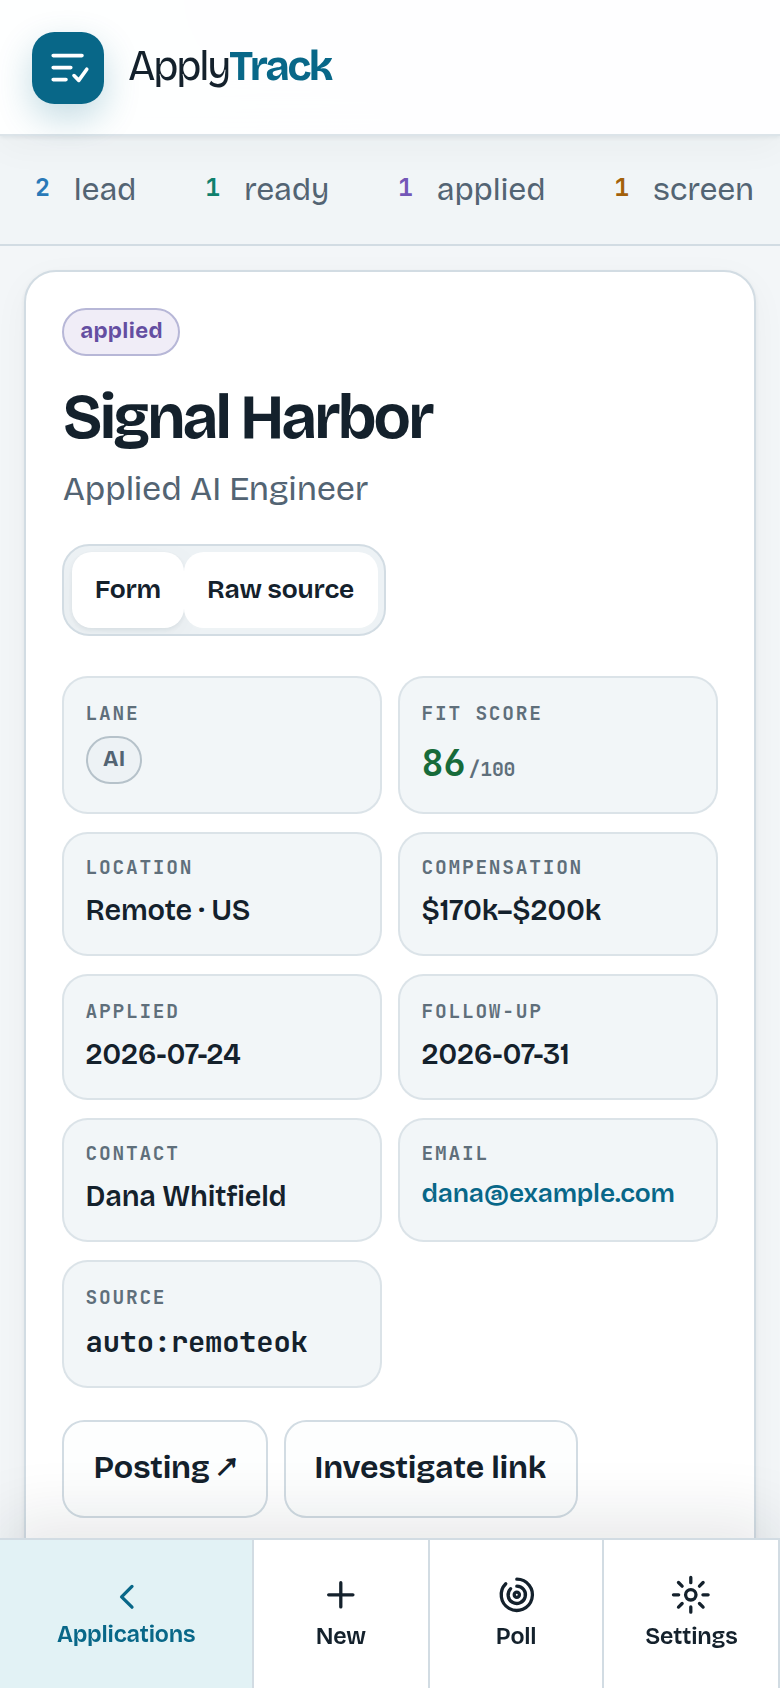
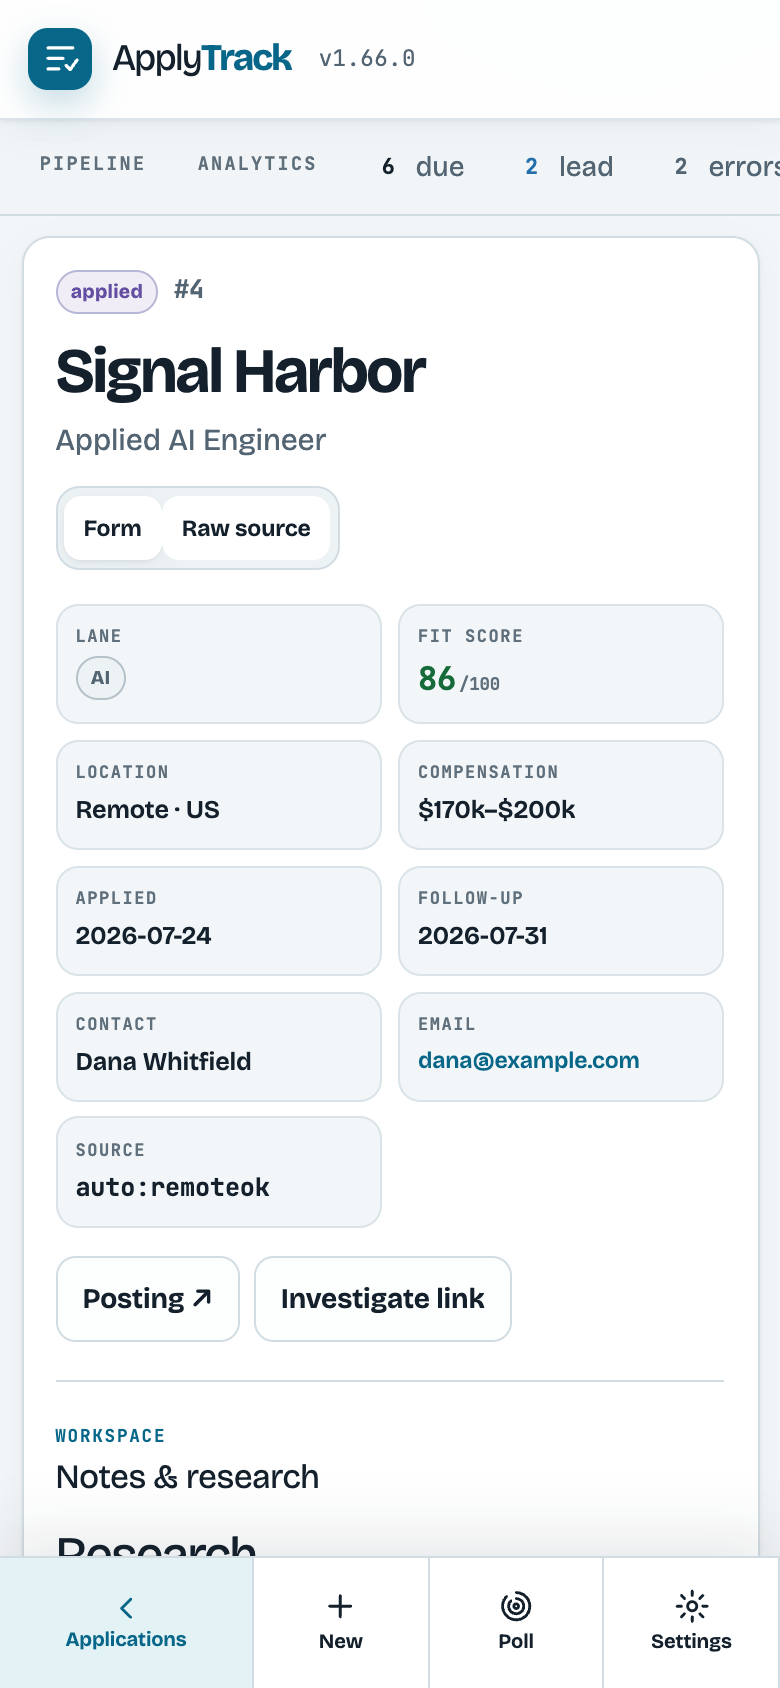
docs(screenshots): retake the README shots and add a desktop + phone gallery
Shot from a running instance of main (1.66.0) with a seeded account; nothing mocked.
- docs/screenshot.png, docs/mobile.png retaken (the phone shot renders text at 87.5%)
- docs/screenshots/: Due, Errors, search results, analytics, an application's
  timeline, contacts, sheet, and Settings · Notifications, each desktop and phone
- README: a collapsible "More screenshots" gallery under the hero images
- capture-readme-screenshots.js: pre-acknowledge the beta-terms dialog (it covered
  every shot) and render phone text at 87.5%

Claude-Session: https://claude.ai/code/session_01SXYffreKMhXLNgc2wdhsiw

diff --git a/scripts/capture-readme-screenshots.js b/scripts/capture-readme-screenshots.js
@@ -25,6 +25,10 @@ const cookie = {
   sameSite: "Lax",
 };
 
+// Phone shots render the text a step smaller (87.5% root size) so more of the sheet fits
+// in 390x844 without looking cramped. Capture-only: the app itself is unchanged.
+const MOBILE_FONT_SCALE = "87.5%";
+
 async function capture({ viewport, deviceScaleFactor, mobile, company, output }) {
   const context = await browser.newContext({
     viewport,
@@ -34,8 +38,14 @@ async function capture({ viewport, deviceScaleFactor, mobile, company, output })
     colorScheme: "light",
   });
   await context.addCookies([cookie]);
+  // The public-beta terms dialog opens once per session and is modal; acknowledge it
+  // up front (the same sessionStorage key the SPA writes) so it never covers the shot.
+  await context.addInitScript(() => {
+    try { sessionStorage.setItem("applytrack.beta-ack", "1"); } catch (_) {}
+  });
   const page = await context.newPage();
   await page.goto(baseUrl, { waitUntil: "networkidle" });
+  if (mobile) await page.addStyleTag({ content: `html { font-size: ${MOBILE_FONT_SCALE}; }` });
   await page.getByRole("button", { name: new RegExp(company) }).click();
   await page.getByRole("heading", { name: company, exact: true }).waitFor();
   // Opening an application moves focus to its heading, which leaves a scroll

diff --git a/README.md b/README.md
@@ -42,6 +42,22 @@ telemetry, no SaaS.
   <em>The responsive list and detail view support touch, keyboard, and screen readers.</em>
 </p>
 
+<details>
+<summary><strong>More screenshots</strong> — desktop and phone, from a running instance</summary>
+
+| View | Desktop | Phone |
+| --- | --- | --- |
+| Due — interviews this week and follow-ups, with <em>Follow up on all</em> | <img src="docs/screenshots/due.png" alt="Due — interviews this week and follow-ups, with Follow up on all" width="560"> | <img src="docs/screenshots/due-mobile.png" alt="Due — interviews this week and follow-ups, with Follow up on all on a phone" width="180"> |
+| Errors — what is stuck, what happens next, and <em>Retry all</em> | <img src="docs/screenshots/errors.png" alt="Errors — what is stuck, what happens next, and Retry all" width="560"> | <img src="docs/screenshots/errors-mobile.png" alt="Errors — what is stuck, what happens next, and Retry all on a phone" width="180"> |
+| Search results — number, where it is, and the posting link | <img src="docs/screenshots/search-results.png" alt="Search results — number, where it is, and the posting link" width="560"> | <img src="docs/screenshots/search-results-mobile.png" alt="Search results — number, where it is, and the posting link on a phone" width="180"> |
+| Analytics — response rate, time to response, and the funnel | <img src="docs/screenshots/analytics.png" alt="Analytics — response rate, time to response, and the funnel" width="560"> | <img src="docs/screenshots/analytics-mobile.png" alt="Analytics — response rate, time to response, and the funnel on a phone" width="180"> |
+| An application's status history, notes, follow-up and interview | <img src="docs/screenshots/application-timeline.png" alt="An application's status history, notes, follow-up and interview" width="560"> | <img src="docs/screenshots/application-timeline-mobile.png" alt="An application's status history, notes, follow-up and interview on a phone" width="180"> |
+| Interviews and the people on an application | <img src="docs/screenshots/application-contacts.png" alt="Interviews and the people on an application" width="560"> | <img src="docs/screenshots/application-contacts-mobile.png" alt="Interviews and the people on an application on a phone" width="180"> |
+| An application sheet | <img src="docs/screenshots/application-sheet.png" alt="An application sheet" width="560"> | <img src="docs/screenshots/application-sheet-mobile.png" alt="An application sheet on a phone" width="180"> |
+| Settings · Notifications — Telegram, email and the daily digest | <img src="docs/screenshots/settings-notifications.png" alt="Settings · Notifications — Telegram, email and the daily digest" width="560"> | <img src="docs/screenshots/settings-notifications-mobile.png" alt="Settings · Notifications — Telegram, email and the daily digest on a phone" width="180"> |
+
+</details>
+
 ---
 
 ## Table of contents
@@ -1387,6 +1403,12 @@ curl -X POST http://localhost:5049/api/account/import \
 APPLYTRACK_SESSION_NAME=applytrack_session APPLYTRACK_SESSION_VALUE="$SID" \
   npm run screenshots
 ```
+
+`npm run screenshots` retakes the two README images (the phone shot renders text at
+87.5% so more of the sheet fits, and the public-beta terms dialog is pre-acknowledged).
+The gallery under *More screenshots* lives in `docs/screenshots/` as `<view>.png`
+(1440×900) and `<view>-mobile.png` (390×844 at 2×, same 87.5% text), shot from the same
+kind of seeded account.
 
 The import is slug-preserving, so re-running it updates the same five entries rather
 than piling up duplicates. Retake the shots whenever a change lands that is visible
